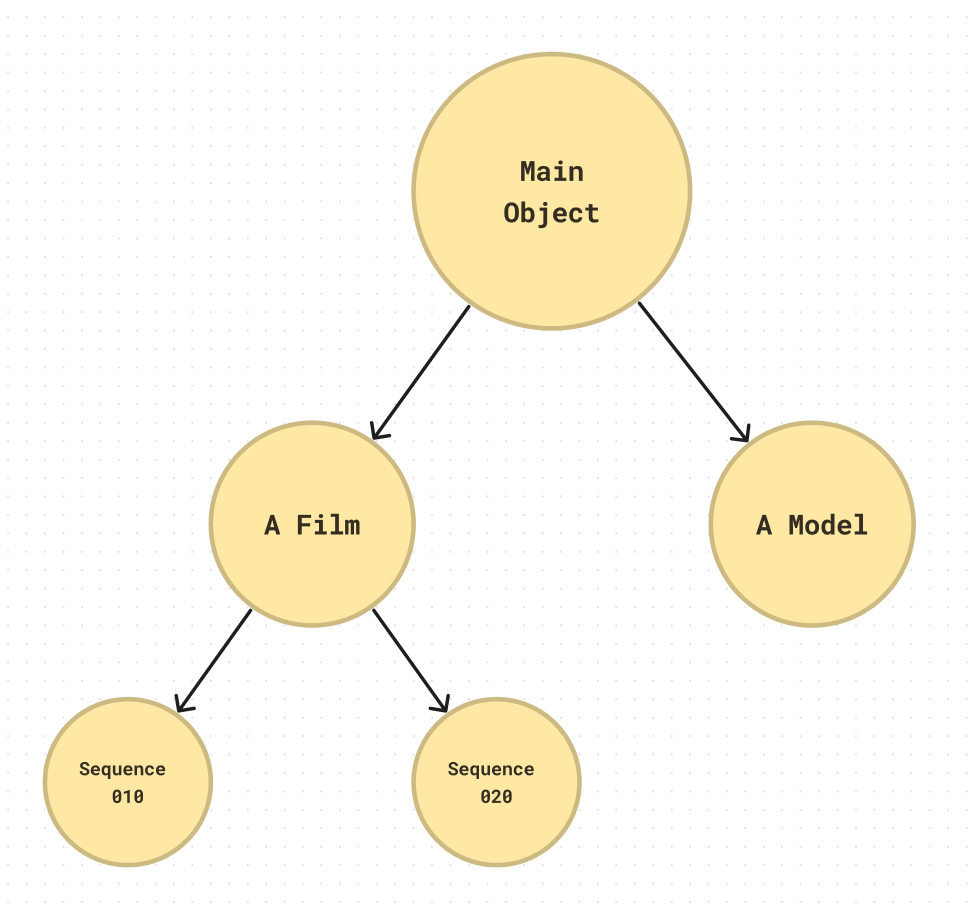
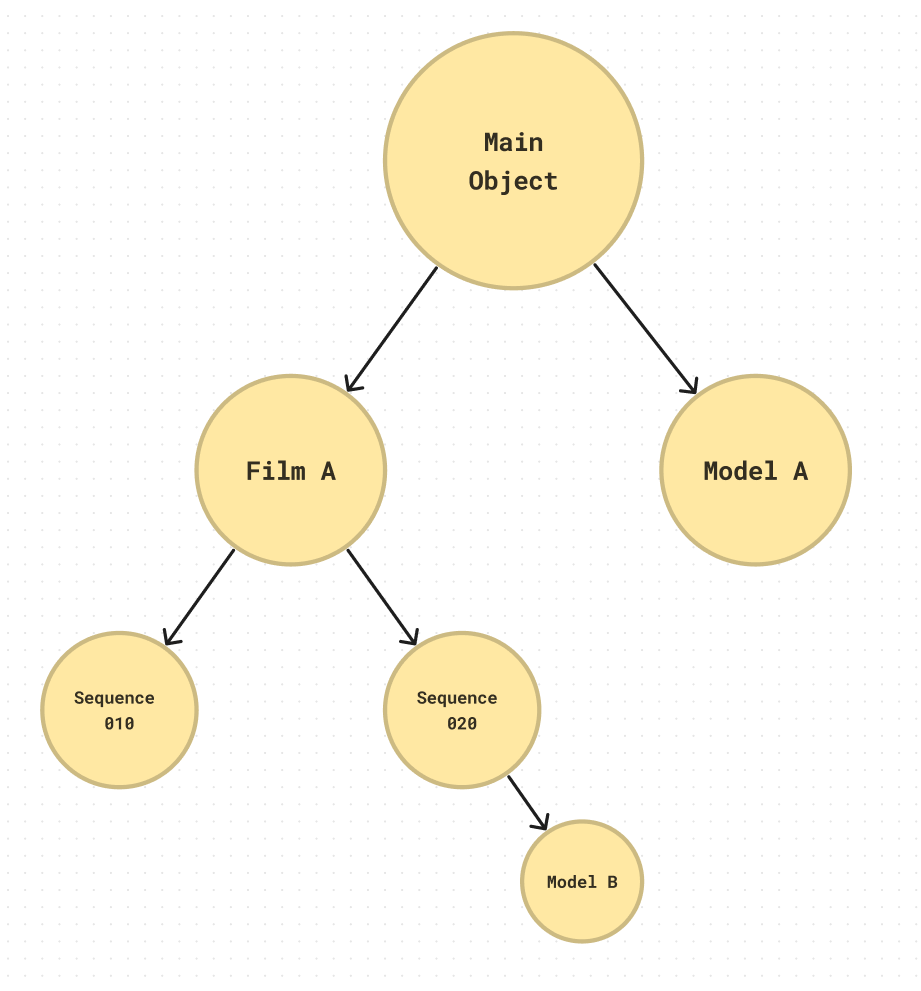
docs

diff --git a/docs/stylesheets/extra.css b/docs/stylesheets/extra.css
@@ -1,0 +1,20 @@
+[data-md-color-scheme="slate"] {
+  --md-code-hl-string-color: #8b8b8b;
+  --md-code-hl-keyword-color: #ffe8a3;
+  --md-code-hl-number-color: #ffe8a3;
+  --md-typeset-a-color: #ffe8a3;
+}
+
+[data-md-color-scheme="default"] {
+  --md-code-hl-string-color: #444444;
+  --md-code-hl-keyword-color: #bd9100;
+  --md-code-hl-number-color: #bd9100;
+}
+
+[data-md-color-scheme=slate][data-md-color-primary=black] {
+  --md-typeset-a-color: #ffe8a3;
+}
+
+[data-md-color-scheme=default][data-md-color-primary=black] {
+  --md-typeset-a-color: #bd9100;
+}

diff --git a/docs/omoospace.md b/docs/omoospace.md
@@ -15,7 +15,7 @@ The rules are simple:
     - `References` stores reference resources (optional).
     - `StagedData` stores temporary data (optional).
 
-3. Subdirectories rules:
+3. `SourceFiles` `Contents` subdirectories (optional):
 
     - Process names set the `SourceFiles` subdirectories.
     - Content types set the `Contents` subdirectories.
@@ -23,7 +23,7 @@ The rules are simple:
 4. Set **Subspaces** by filename prefix or subdirectory based on creation objects.
 5. **Omoospace.yml** stores the workspace profile, such as creator profiles, software versions, etc.
 
-![A diagram illustrating the structure of omoospace](assets/Untitled.png)
+![A diagram illustrating the structure of omoospace](assets/overview.png)
 
 A diagram illustrating the structure of omoospace
 
@@ -43,38 +43,38 @@ So, how should you set subspace? And what is worth noting when setting subspaces
 
 The phrases that are separated by `_` are subspaces, for example:
 
-```shell
+```bash
 |-- SourceFiles
-|   `-- EP001_SQ010_AssetA.blend
+|   `-- FilmA_SQ020_ModelB.blend
 ```
 
-It is evident that this blender file is for creating `Asset A (AssetA)` of `Sequence 010 (SQ010)` of `Episode 001 (EP001)`. The nested subspaces form a route from parent to child: `EP001 > SQ010 > AssetA`. We call it **Subspace Route**.
+Evidently, this blender file is for creating `Model B` of `Sequence 010` of `Film A`. The nested subspaces form a route from parent to child: `FilmA > SQ020 > ModelB`. We call it **Subspace Route**.
 
 You can also use subdirectories instead of filename prefixes. To distinguish **Subspace Directory** from ordinary directories, the subspace directory must contain a marker file named `Subspace.yml`.
 
-```shell
+```bash
 |-- SourceFiles
-|   `-- EP001
+|   `-- FilmA
 |       |-- Subspace.yml # marker
-|       `-- SQ010
+|       `-- SQ020
 |           |-- Subspace.yml # marker
-|           `-- AssetA.blend
+|           `-- ModelB.blend
 ```
 
-The subspace route above is also `EP001 > SQ010 > AssetA`.
+The subspace route above is also `FilmA > SQ020 > ModelB`.
 
 Subspace is just a concept, and its existence relies on files or directories. We call those files and directories **Subspace Entities** of their subspace. As you can imagine, one subspace may have multiple entities to present them.
 
-```shell
+```bash
 |-- SourceFiles
-|   `-- EP001
+|   `-- FilmA
 |       |-- Subspace.yml # marker
-|       |-- EP001.blend
-|       |-- SQ010.prproj
-|       `-- SQ010.blend
+|       |-- FilmA.prproj
+|       |-- SQ020.prproj
+|       `-- SQ020.blend
 ```
 
-`SQ010.prproj` and `SQ010.blend` are both for `Sequence 010 (SQ010)`. They are its entities. Similarly, directory `EP001` and file `EP001.blend` are both `Episode 001 (EP001)` entities. According to subspace entities, we classify subspaces into three kinds:
+File `SQ020.prproj` and `SQ020.blend` are `Sequence 010 (SQ020)` entities. Similarly, the directory `FilmA` and file `FilmA.prproj` are `Film A (FilmA)` entities. According to subspace entities, we classify subspaces into three kinds:
 
 -   **Directory Subspace** has a directory to present it.
 -   **File Subspace** has only files to present it, no directory.
@@ -82,34 +82,34 @@ Subspace is just a concept, and its existence relies on files or directories. We
 
 !!! note
 
-    The file `EP001_SQ010_AssetA.blend` only contains the `Asset A` object. `EP001` and `SQ010` are just pure concepts. They are phantom subspaces.
+    The file `FilmA_SQ020_ModelB.blend` only contains the `Model B` object. `FilmA` and `SQ020` are just pure concepts. They are typical phantom subspaces.
 
 #### A subspace route is formed by combining the subspace directory and filename prefix.
 
-Parent subspace directories and filename prefixes form the subspace route. Suppose the entity filename prefix contains its parent subspace name. They should overlap each other as much as possible, for example:
+Parent subspace directories and filename prefixes form the subspace route of an entity. Suppose the entity filename prefix contains its parent subspace name. They should overlap each other as much as possible, for example:
 
-```shell
+```bash
 |-- SourceFiles
-|   |-- EP001
+|   |-- FilmA
 |   |   |-- Subspace.yml
-|   |   `-- SQ010_AssetA.blend
+|   |   `-- SQ020_ModelB.blend
 ```
 
-```shell
+```bash
 |-- SourceFiles
-|   |-- EP001
+|   |-- FilmA
 |   |   |-- Subspace.yml
-|   |   `-- EP001_SQ010_AssetA.blend
+|   |   `-- FilmA_SQ020_ModelB.blend
 ```
 
-```shell
+```bash
 |-- SourceFiles
-|   |-- EP001_SQ010
+|   |-- FilmA_SQ020
 |   |   |-- Subspace.yml
-|   |   `-- EP001_SQ010_AssetA.blend
+|   |   `-- FilmA_SQ020_ModelB.blend
 ```
 
-All examples' routes are all `EP001 > SQ010 > AssetA`.
+All examples' routes are all `FilmA > SQ020 > ModelB`.
 
 !!! note
 
@@ -117,7 +117,7 @@ All examples' routes are all `EP001 > SQ010 > AssetA`.
 
 #### A subspace name should not be pure numbers or versions or autosave.
 
-Numbers, versions, and autosave semantics are not for new objects, so they should not be subspace names. For example, `v001` in `EP001_SQ010_AssetA_v001.blend`,  is not a new creation object. The file is still for creating `AssetA`. The subspace definition defines a subspace as a particular creation object. So `v001` is not a subspace.
+Numbers, versions, and autosave semantics are not for new objects, so they should not be subspace names. For example, `v001` in `FilmA_SQ020_ModelB_v001.blend`,  is not a new creation object. The file is still for creating `ModelB`. The subspace definition defines a subspace as a particular creation object. So `v001` is not a subspace.
 
 
 #### Write the subspace profile into Subspace.yml.
@@ -132,22 +132,22 @@ description: Comments to this subspace.
 
 You can create the profile file to any subspace with the route as its filename, not the entire route but the subroute to the parent subspace.
 
-```shell
+```bash
 |-- SourceFiles
-|   |-- EP001
+|   |-- FilmA
 |   |   |-- Subspace.yml
-|   |   |-- SQ010.yml
-|   |   |-- SQ010_AssetA.yml
-|   |   `-- SQ010_AssetA.blend
+|   |   |-- SQ020.yml
+|   |   |-- SQ020_ModelB.yml
+|   |   `-- SQ020_ModelB.blend
 ```
 
 ```yaml
-# SQ010.yml
-name: Sequence 010
+# SQ020.yml
+name: Sequence 020
 description: The beginning scene of the story.
 
-# SQ010_AssetA.yml
-name: Asset A
+# SQ020_ModelB.yml
+name: Model B
 description: A 3d model.
 ```
 
@@ -165,7 +165,7 @@ When a project grows, you may need to separate many source files into directorie
 
 Some optional process names:
 
-```shell
+```bash
 # Film production processes
 |-- SourceFiles
 |   |-- PreProduction
@@ -173,15 +173,16 @@ Some optional process names:
 |   `-- PostProduction
 ```
 
-```shell
+```bash
 # Post-production subprocesses
 |-- SourceFiles
 |   |-- Compositing
 |   |-- SoundEditing
 |   `-- VideoEditing
 ```
+You can add sequence numbers in front.
 
-```shell
+```bash
 # 3D modeling processes
 |-- SourceFiles
 |   |-- 001-Modeling
@@ -192,7 +193,7 @@ Some optional process names:
 
 You can mix use process directories and subspace directories.
 
-```shell
+```bash
 <SeriesTitle> # (Root)
 |-- SourceFiles
 |   |-- PreProduction
@@ -218,7 +219,7 @@ Most source files have their object, such as rendering images or exporting a 3D 
 
 Void subspace can be in a filename prefix or as a directory.
 
-```shell
+```bash
 |-- SourceFiles
 |   |-- BeatingHeart
 |   |   `-- Void_HowToBeat.hip
@@ -245,7 +246,7 @@ It stores digital content in a common format, whether internal or external, whet
 
 Some optional content types:
 
-```shell
+```bash
 # For modeling propose
 |-- Contents
 |   |-- Images
@@ -254,7 +255,7 @@ Some optional content types:
 |   `-- Renders
 ```
 
-```shell
+```bash
 # For short video production propose
 |-- Contents
 |   |-- Audios
@@ -266,7 +267,7 @@ Some optional content types:
 |   `-- Videos
 ```
 
-```shell
+```bash
 # For film production propose
 |-- Contents
 |   |-- Audios
@@ -300,7 +301,7 @@ Type subdirectories should fit your workflow. But be aware of the following rule
 
 There is no subspace directory setting in `Contents`. But use subspace route as filename prefix to hint the relationship to its source file.
 
-```shell
+```bash
 |-- Contents
 |   `-- Models
 |       |-- BloodCells_RBC.fbx
@@ -313,7 +314,7 @@ In the above example, `BloodCells_RBC.fbx` and `BloodCells_WBC.fbx` come from `B
 
 In some cases, one content is a collection of multiple files. e.g., a 3d model with textures or an image sequence of render output. Those sub-file names do not necessarily contain route names, as they are with their root directory, which already hints at its source. As the example below, the texture filename does not need to have `Organs`, because you wouldn't use those textures without the mesh. 
 
-```shell
+```bash
 |-- Contents
 |   `-- Models
 |       `-- Organs_Heart
@@ -341,7 +342,7 @@ It stores all data files from external sources. The “external” here means th
 
 Just keep its original file structure and naming style. For example:
 
-```shell
+```bash
 |-- ExternalData
 |   |-- www.models.com_CT_Scanner
 |   |   |-- CT_Scanner.fbx
@@ -375,12 +376,12 @@ You may have your resource library of 3D assets in a local or network directory 
 
 So we prefer to create a soft link to the library in `ExternalData`, then you can easily access the assets from the library.
 
-```shell
+```bash
 |-- ExternalData
 |   `-- Resouces # Soft link
 ```
 
-```shell
+```bash
 D:
 |-- Resouces # My super 3D resource library for everything 
 |   |-- Models
@@ -394,7 +395,7 @@ D:
 
 The omoospace package is designed for sharing omoospace data. You store them in `ExternalData`. 
 
-```shell
+```bash
 |-- ExternalData
 |   |-- BloodCells # Package
 |   |   |-- Package.yml # Package info
@@ -481,7 +482,7 @@ ExternalData acts like a Packages directory of the Unity project that stores dat
 
 The internal structure of the package is part of its source omoospace
 
-```shell
+```bash
 <PackageName>
 |-- Contents # (Optional)
 |-- ExternalData # (Optional)

diff --git a/README.md b/README.md
@@ -12,7 +12,7 @@ This library requires Python version 3.9 or above (python official download link
 
 Run the following command to install omoospace:
 
-```shell
+```bash
 pip install omoospace
 ```
 

diff --git a/docs/index.md b/docs/index.md
@@ -12,7 +12,7 @@ This library requires Python version 3.9 or above (python official download link
 
 Run the following command to install omoospace:
 
-```shell
+```bash
 pip install omoospace
 ```
 
